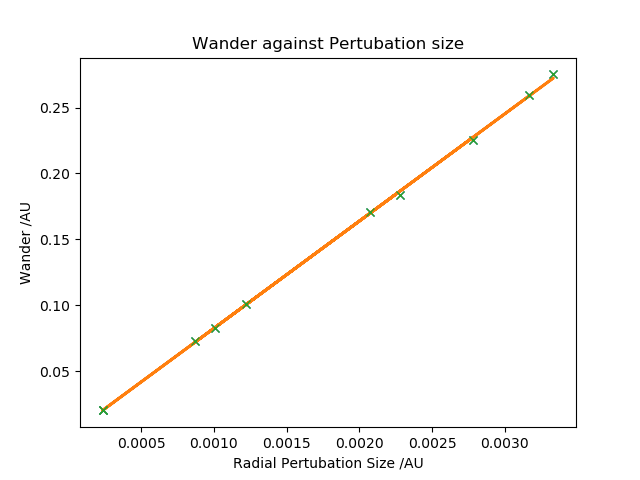
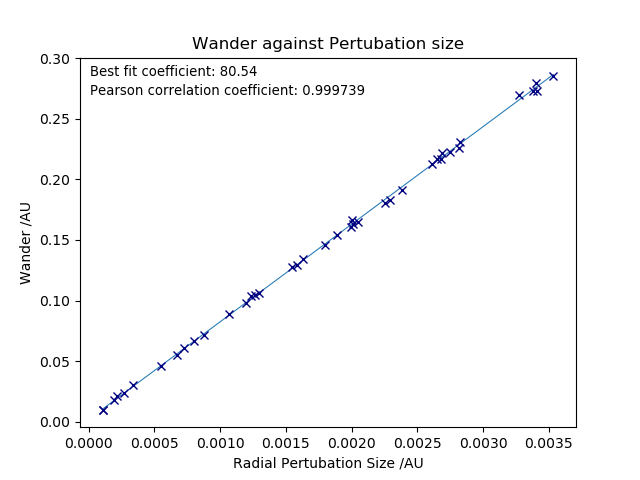
radial and tangential wander plots

diff --git a/wander.py b/wander.py
@@ -18,8 +18,7 @@ init_cond_stat = np.array(
 )
 
 greek_theta = np.arctan((R * math.sqrt(3) / 2) / (R / 2 - solar_rad))
-print(greek_theta)
-cos, sin = np.cos(greek_theta), np.sin(greek_theta)
+
 
 # Defined Functions
 def perturb(data, max_pertubation_size):
@@ -39,7 +38,7 @@ def max_wander(max_pertubation_size, samples):
     """Returns maximum deviation over orbit in the rotating frame for given number of samples
 
     This calculates the distange from the initial point (not the lagrange point)
-    It returns a samples*3 array, giving the x and y components
+    It returns a samples*3 array, giving the radial and tangential components
     of the pertubation, and then the maximum wander over this timespan
 
     pertubation_size determies the relative magnitude of the perturbation as in perturb()
@@ -54,25 +53,18 @@ def max_wander(max_pertubation_size, samples):
         perturb_theta = np.arctan(
             (init_cond[1] - init_cond_rot[1]) / (init_cond[0] - init_cond_rot[0])
         )
-        sign = np.sign(init_cond[1] - init_cond_rot[1]) * np.sign(
-            init_cond[0] - init_cond_rot[0]
-        )
+
         for i in range(len(sample_wander)):
             sample_wander[i] = np.linalg.norm(
                 orbit.y[0:3, i]
                 - init_cond[0:3]
                 # - lagrange[0:3]
             )  # deviation in pos only
-        output[n, 0] = (
-            np.linalg.norm((init_cond[0:3] - lagrange[0:3]))
-            * np.abs(np.cos(greek_theta - perturb_theta))
-            # * sign
+        output[n, 0] = np.linalg.norm((init_cond[0:3] - lagrange[0:3])) * np.abs(
+            np.cos(greek_theta - perturb_theta)
         )  # radial component of pertubation
-        print(np.cos(greek_theta - perturb_theta))
-        output[n, 1] = (
-            np.linalg.norm((init_cond[0:3] - lagrange[0:3]))
-            * np.abs(np.sin(greek_theta - perturb_theta))
-            # * sign
+        output[n, 1] = np.linalg.norm((init_cond[0:3] - lagrange[0:3])) * np.abs(
+            np.sin(greek_theta - perturb_theta)
         )  # tangential component of pertubation
         output[n, 2] = np.max(sample_wander)  # size of wander
     return output
@@ -105,24 +97,58 @@ def wander(pertubation, samples=1, pertubation_type="position"):
     return np.max(wander_t)
 
 
-wander_data = max_wander(max_pertubation_size=0.001, samples=10)
-plt.plot(wander_data[:, 0], wander_data[:, 2], linestyle="None", marker="x")
+wander_data = max_wander(max_pertubation_size=0.001, samples=40)
+
+fig = plt.figure()
+ax = fig.add_subplot()
+
+coeff = np.polyfit(wander_data[:, 0], wander_data[:, 2], 1)
 plt.plot(
-    wander_data[:, 0],
-    np.poly1d(np.polyfit(wander_data[:, 0], wander_data[:, 2], 1))(wander_data[:, 0]),
-    linewidth=0.5,
+    [wander_data[:, 0].min(), wander_data[:, 0].max()],
+    [
+        wander_data[:, 0].min() * coeff[0] + coeff[1],
+        wander_data[:, 0].max() * coeff[0] + coeff[1],
+    ],
+    linewidth=0.75,
 )
-plt.plot(wander_data[:, 0], wander_data[:, 2], linestyle="None", marker="x")
+plt.plot(
+    wander_data[:, 0], wander_data[:, 2], linestyle="None", marker="x", color="navy"
+)
+
 plt.title("Wander against Pertubation size")
 plt.ylabel("Wander /AU")
 plt.xlabel("Radial Pertubation Size /AU")
+plt.text(
+    0.02,
+    0.95,
+    "Best fit coefficient: " + str("{0:.2f}".format(coeff[0])),
+    transform=ax.transAxes,
+    fontsize=9.5,
+)
+plt.text(
+    0.02,
+    0.9,
+    "Pearson correlation coefficient: "
+    + str("{0:.6f}".format(np.corrcoef(wander_data[:, 0], wander_data[:, 2])[0, 1])),
+    transform=ax.transAxes,
+    fontsize=9.5,
+)
 plt.savefig("wanderagainstradialpertubation.png")
 plt.show()
+
 
 plt.plot(wander_data[:, 1], wander_data[:, 2], linestyle="None", marker="x")
 plt.title("Wander against Pertubation size")
 plt.ylabel("Wander /AU")
 plt.xlabel("Tangential Pertubation Size /AU")
+# plt.text(
+#     0.02,
+#     0.95,
+#     "Pearson correlation coefficient: "
+#     + str("{0:.6f}".format(np.corrcoef(wander_data[:, 1], wander_data[:, 2])[0, 1])),
+#     transform=ax.transAxes,
+#     fontsize=9.5,
+# )
 plt.savefig("wanderagainsttangentialpertubation.png")
 plt.show()
 
